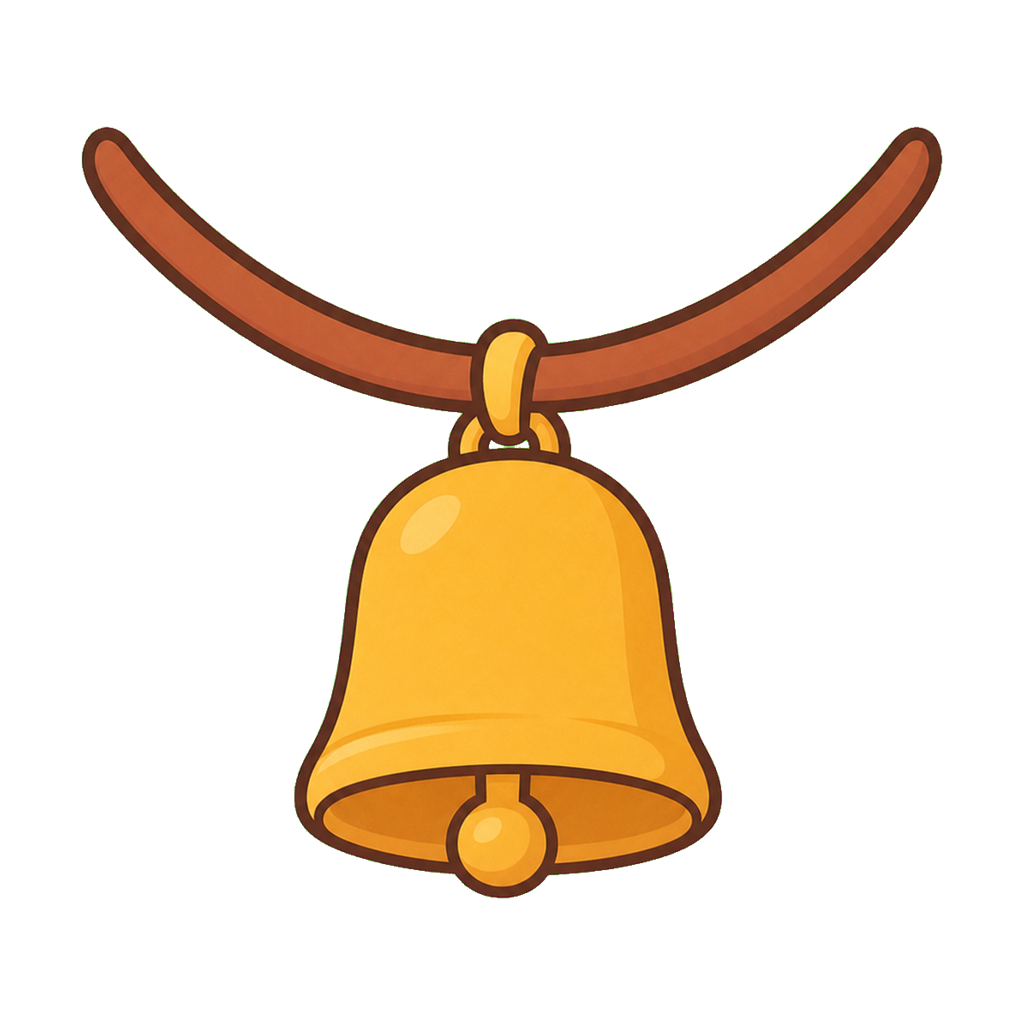
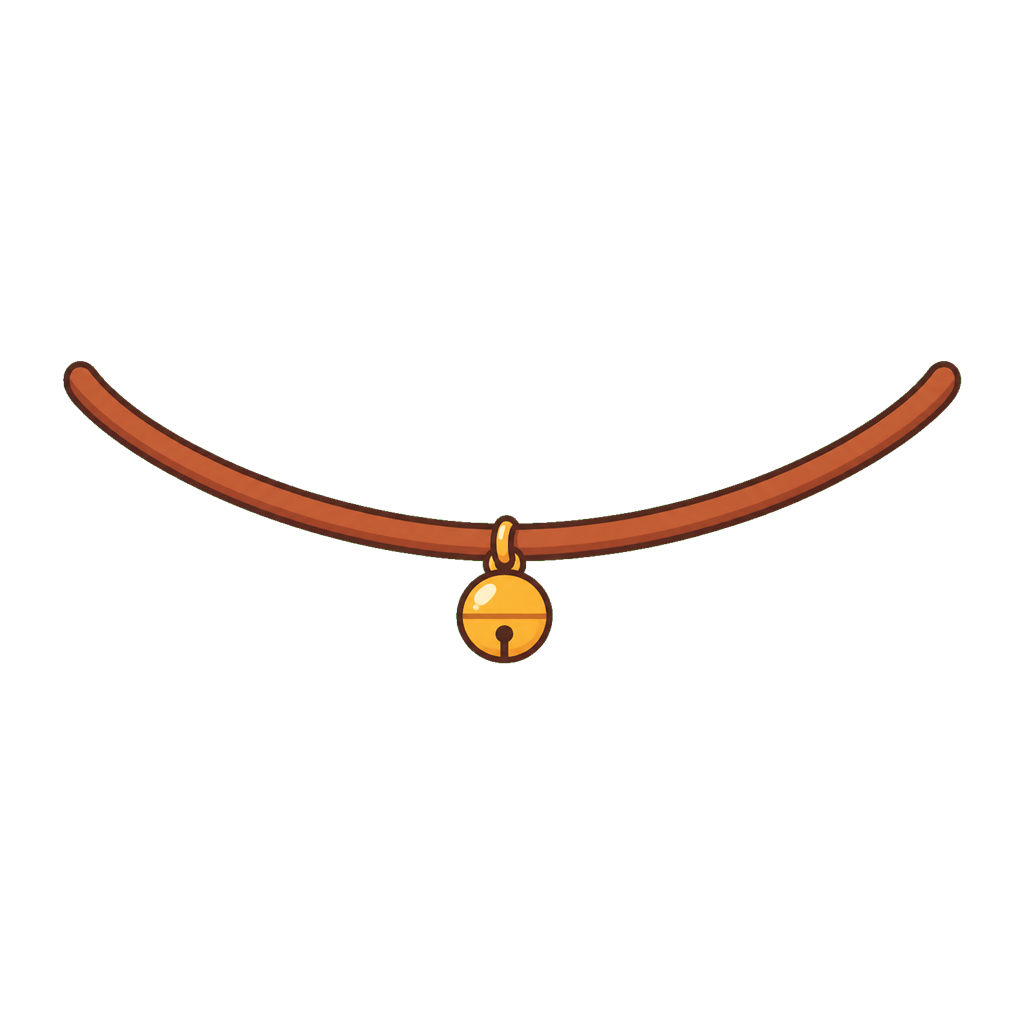
design: 펫홈 계절 목걸이 소품 추가

Changed region(s): [[0.0625, 0.125, 0.9375, 0.875]]

diff --git a/src/App.tsx b/src/App.tsx
@@ -2070,6 +2070,10 @@ const petHomeAccessoryIds = new Set([
   'cherry-hairpin',
   'berry-pin',
   'mittens',
+  'pearl-blossom-necklace',
+  'shell-necklace',
+  'acorn-maple-necklace',
+  'snow-pearl-necklace',
 ])
 
 function isPetHomeVisibleDecorItem(item: DecorItem) {

diff --git a/src/data/decorItems.ts b/src/data/decorItems.ts
@@ -51,6 +51,10 @@ export const decorItems: DecorItem[] = [
   { id: 'cake-slice', name: '케이크 한 조각', type: 'accessory' },
   { id: 'floral-edition', name: '꽃무늬 에디션', type: 'accessory' },
   { id: 'bell-necklace', name: '방울 목걸이', type: 'accessory' },
+  { id: 'pearl-blossom-necklace', name: '진주 꽃 목걸이', type: 'accessory', unlockSeasonKey: 'spring', unlockSeasonSpendWon: 300000 },
+  { id: 'shell-necklace', name: '조개 목걸이', type: 'accessory', unlockSeasonKey: 'summer', unlockSeasonSpendWon: 300000 },
+  { id: 'acorn-maple-necklace', name: '도토리 단풍 목걸이', type: 'accessory', unlockSeasonKey: 'autumn', unlockSeasonSpendWon: 300000 },
+  { id: 'snow-pearl-necklace', name: '눈꽃 진주 목걸이', type: 'accessory', unlockSeasonKey: 'winter', unlockSeasonSpendWon: 300000 },
   { id: 'eco-bag', name: '에코백', type: 'accessory' },
   { id: 'bread-board-knife', name: '나무 도마+빵칼', type: 'accessory' },
   { id: 'yarn-needle', name: '털실 뭉치+바늘', type: 'accessory' },

diff --git a/src/App.css b/src/App.css
@@ -2248,7 +2248,7 @@
 .pet-action-panel {
   margin: 12px 0 0;
   overflow: hidden;
-  border: 1px solid #e5e8eb;
+  border: 1px solid #c6ccd3;
   border-radius: 8px;
   background: #ffffff;
   box-shadow: none;

diff --git a/src/components/PetAvatar.tsx b/src/components/PetAvatar.tsx
@@ -150,7 +150,7 @@ function getAccessoryFrame(name: string) {
     return { x: 15, y: 30, width: 195, height: 255 }
   }
   if (name.includes('목걸이')) {
-    return { x: 34, y: 62, width: 192, height: 176 }
+    return { x: 6, y: 98, width: 248, height: 104 }
   }
   if (name.includes('밀짚모자')) {
     return { x: 20, y: -16, width: 220, height: 288 }